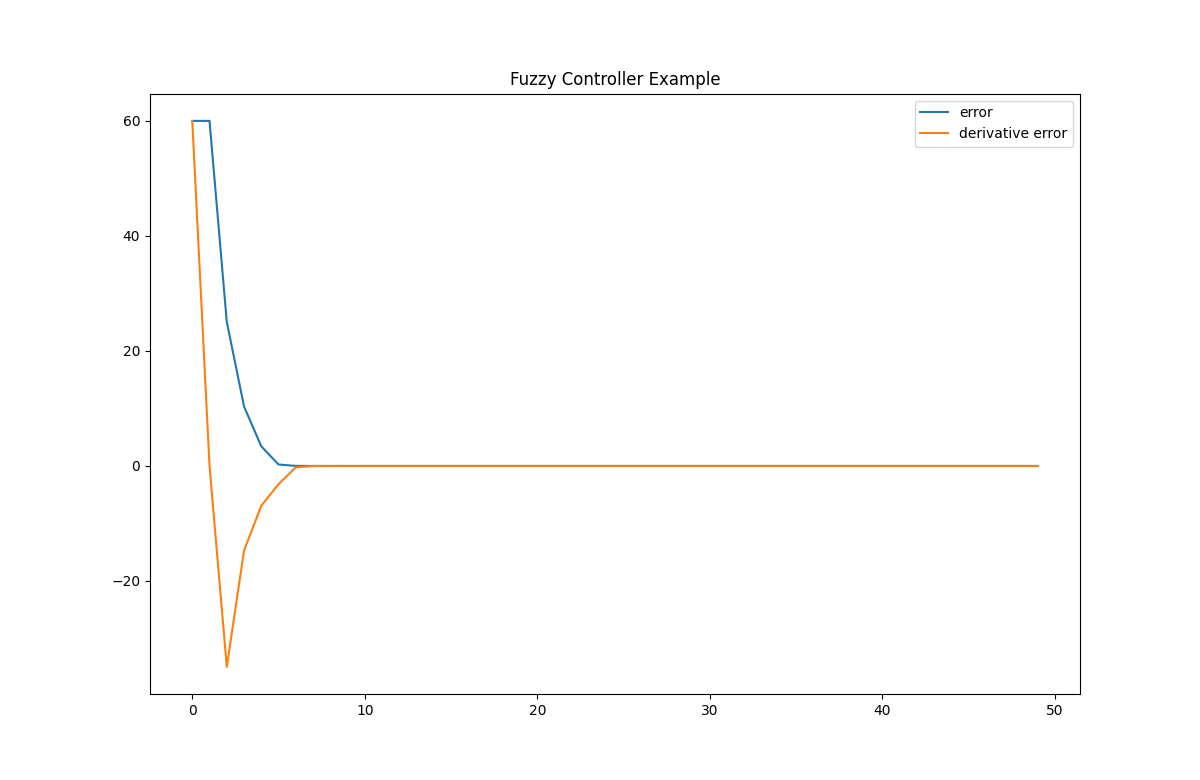
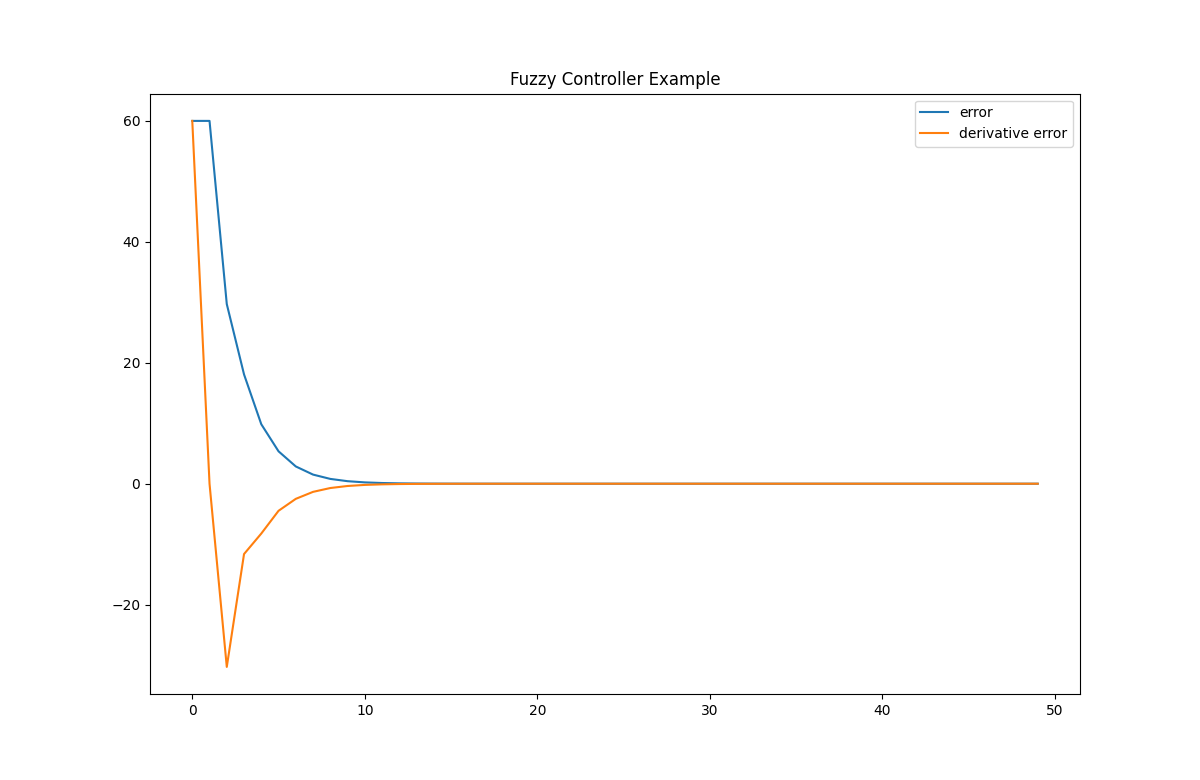
add K setting function

diff --git a/src/example.cpp b/src/example.cpp
@@ -12,6 +12,10 @@ int main (int argc,char *argv[]) {
     fc::scalar curr = 0;
     fc::scalar u    =0;
 
+   constexpr fc::scalar eNB = -640, eNM = -400, eNS = -210, eZO = 0, ePS = 210, ePM = 400, ePB = 640;
+   constexpr fc::scalar deNB = -320, deNM = -200, deNS = -105, deZO = 0, dePS = 105, dePM = 200, dePB = 320;
+   constexpr fc::scalar uNB = -3, uNM = -2, uNS = -1, uZO = 0, uPS = 1, uPM = 2, uPB = 3; 
+
     int8_t ruleMatrix[7][7]={{NB,NB,NM,NM,NS,ZO,ZO},
                             {NB,NB,NM,NS,NS,ZO,PS},
                             {NM,NM,NM,NS,ZO,PS,PS},
@@ -20,10 +24,17 @@ int main (int argc,char *argv[]) {
                             {NS,ZO,PS,PM,PM,PM,PB},
                             {ZO,ZO,PM,PM,PM,PB,PB}};
 
-    // input parameter number is [N x M]
-    std::vector<fc::scalar> e_mf_paras {-3,-3,-2,-3,-2,-1,-2,-1,0,-1,0,1,0,1,2,1,2,3,2,3,3};
-    std::vector<fc::scalar> de_mf_paras {-3,-3,-2,-3,-2,-1,-2,-1,0,-1,0,1,0,1,2,1,2,3,2,3,3};
-    std::vector<fc::scalar> u_mf_paras {-3,-3,-2,-3,-2,-1,-2,-1,0,-1,0,1,0,1,2,1,2,3,2,3,3};
+    // input parameter number is [N x M] coff*Kp_u*sign(i)*i
+    std::vector<fc::scalar> e_mf_paras {eNB,eNB,eNM, eNB,eNM,eNS, eNM,eNS,eZO, eNS,eZO,ePS, eZO,ePS,ePM, ePS,ePM,ePB, ePM,ePB,ePB};
+    std::vector<fc::scalar> de_mf_paras  {deNB,deNB,deNM, deNB,deNM,deNS, deNM,deNS,deZO, deNS,deZO,dePS, deZO,dePS,dePM, dePS,dePM,dePB, dePM,dePB,dePB};
+    std::vector<fc::scalar> u_mf_paras {uNB,uNB,uNM, uNB,uNM,uNS, uNM,uNS,uZO, uNS,uZO,uPS, uZO,uPS,uPM, uPS,uPM,uPB, uPM,uPB,uPB};
+
+    // coff*Kp_u*sign(i)*i^2
+    // std::vector<fc::scalar> e_mf_paras {-3,-3,-2,-3,-2,-1,-2,-1,0,-1,0,1,0,1,2,1,2,3,2,3,3};
+    // std::vector<fc::scalar> de_mf_paras {-3,-3,-2,-3,-2,-1,-2,-1,0,-1,0,1,0,1,2,1,2,3,2,3,3};
+    // std::vector<fc::scalar> u_mf_paras {-9,-9,-4,-9,-4,-1,-4,-1,0,-1,0,1,0,1,4,1,4,9,4,9,9};
+
+
 
     fc::FuzzyController* fzc = new fc::FuzzyController(100,65,50);
 
@@ -37,6 +48,9 @@ int main (int argc,char *argv[]) {
 
     fzc->setFuzzyRule(ruleMatrix);
     fzc->setResolution(100);
+    fc::scalar Kp_u = 150.0;
+    fc::scalar Kp_e = Kp_u/200;
+    fzc->setParam_K(Kp_e, 0.1, Kp_u);
     fzc->showInfo();
 
     uint8_t iter_max = 50; 

diff --git a/src/FuzzyControl.cpp b/src/FuzzyControl.cpp
@@ -237,6 +237,13 @@ namespace fc {
         this->m_u_param = u_param;
     }
 
+    void FuzzyController::setParam_K(scalar Kp_e, scalar Kd_e, scalar Kp_u) {
+        this->Kp_e = Kp_e;
+        this->Kd_e = Kd_e;
+        this->Kp_u = Kp_u;
+    }
+
+
     void FuzzyController::showInfo() {
         std::cout << ANSI_COLOR_BLUE << 
         "------------ Information of fuzzy logic controller ------------" 

diff --git a/include/FuzzyControl.h b/include/FuzzyControl.h
@@ -73,6 +73,8 @@ namespace fc {
             void setGoal(scalar goal);
 
             void setCurrent(scalar curr);
+            
+            void setParam_K(scalar Kp_e, scalar Kd_e, scalar Kp_u);
 
             void showInfo();
 
